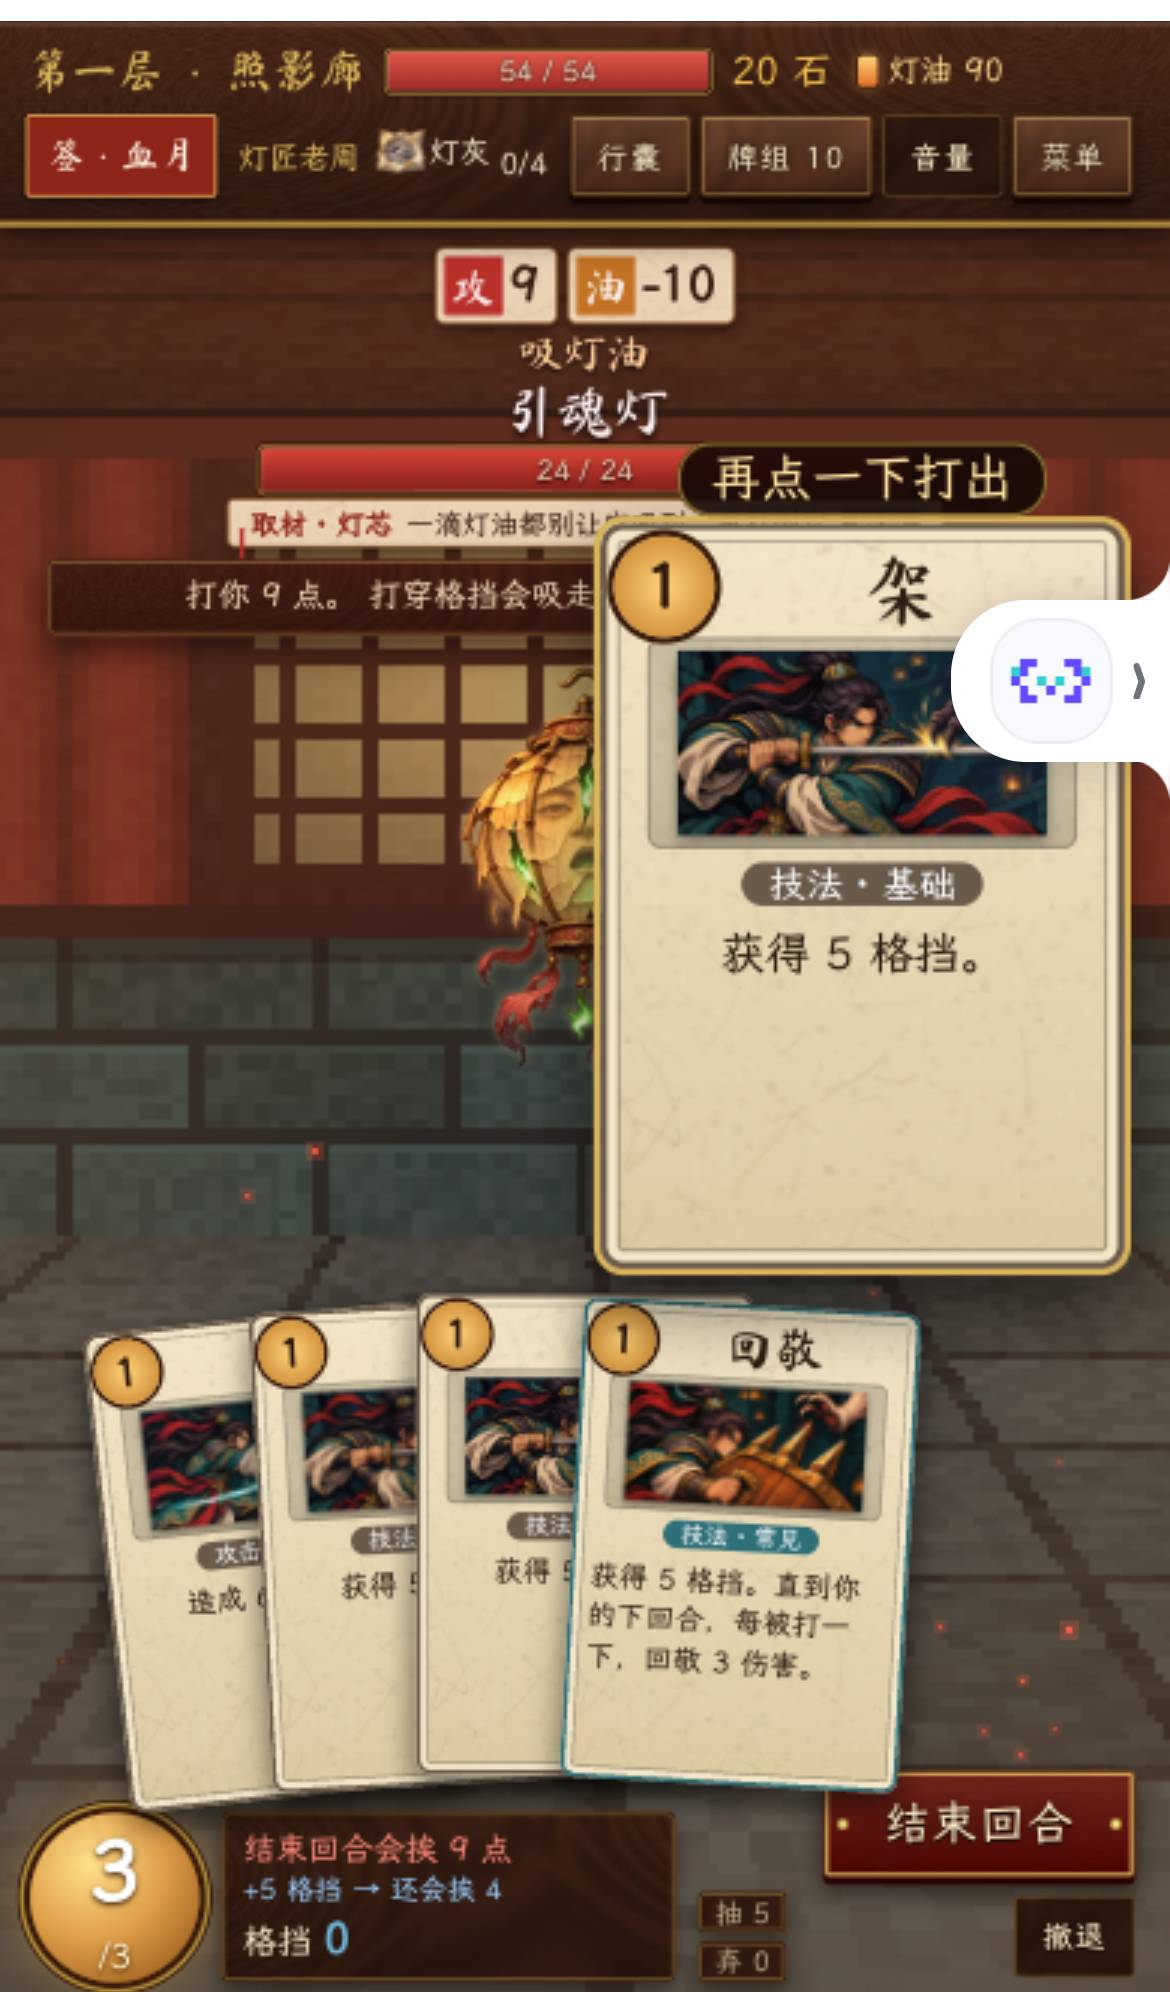
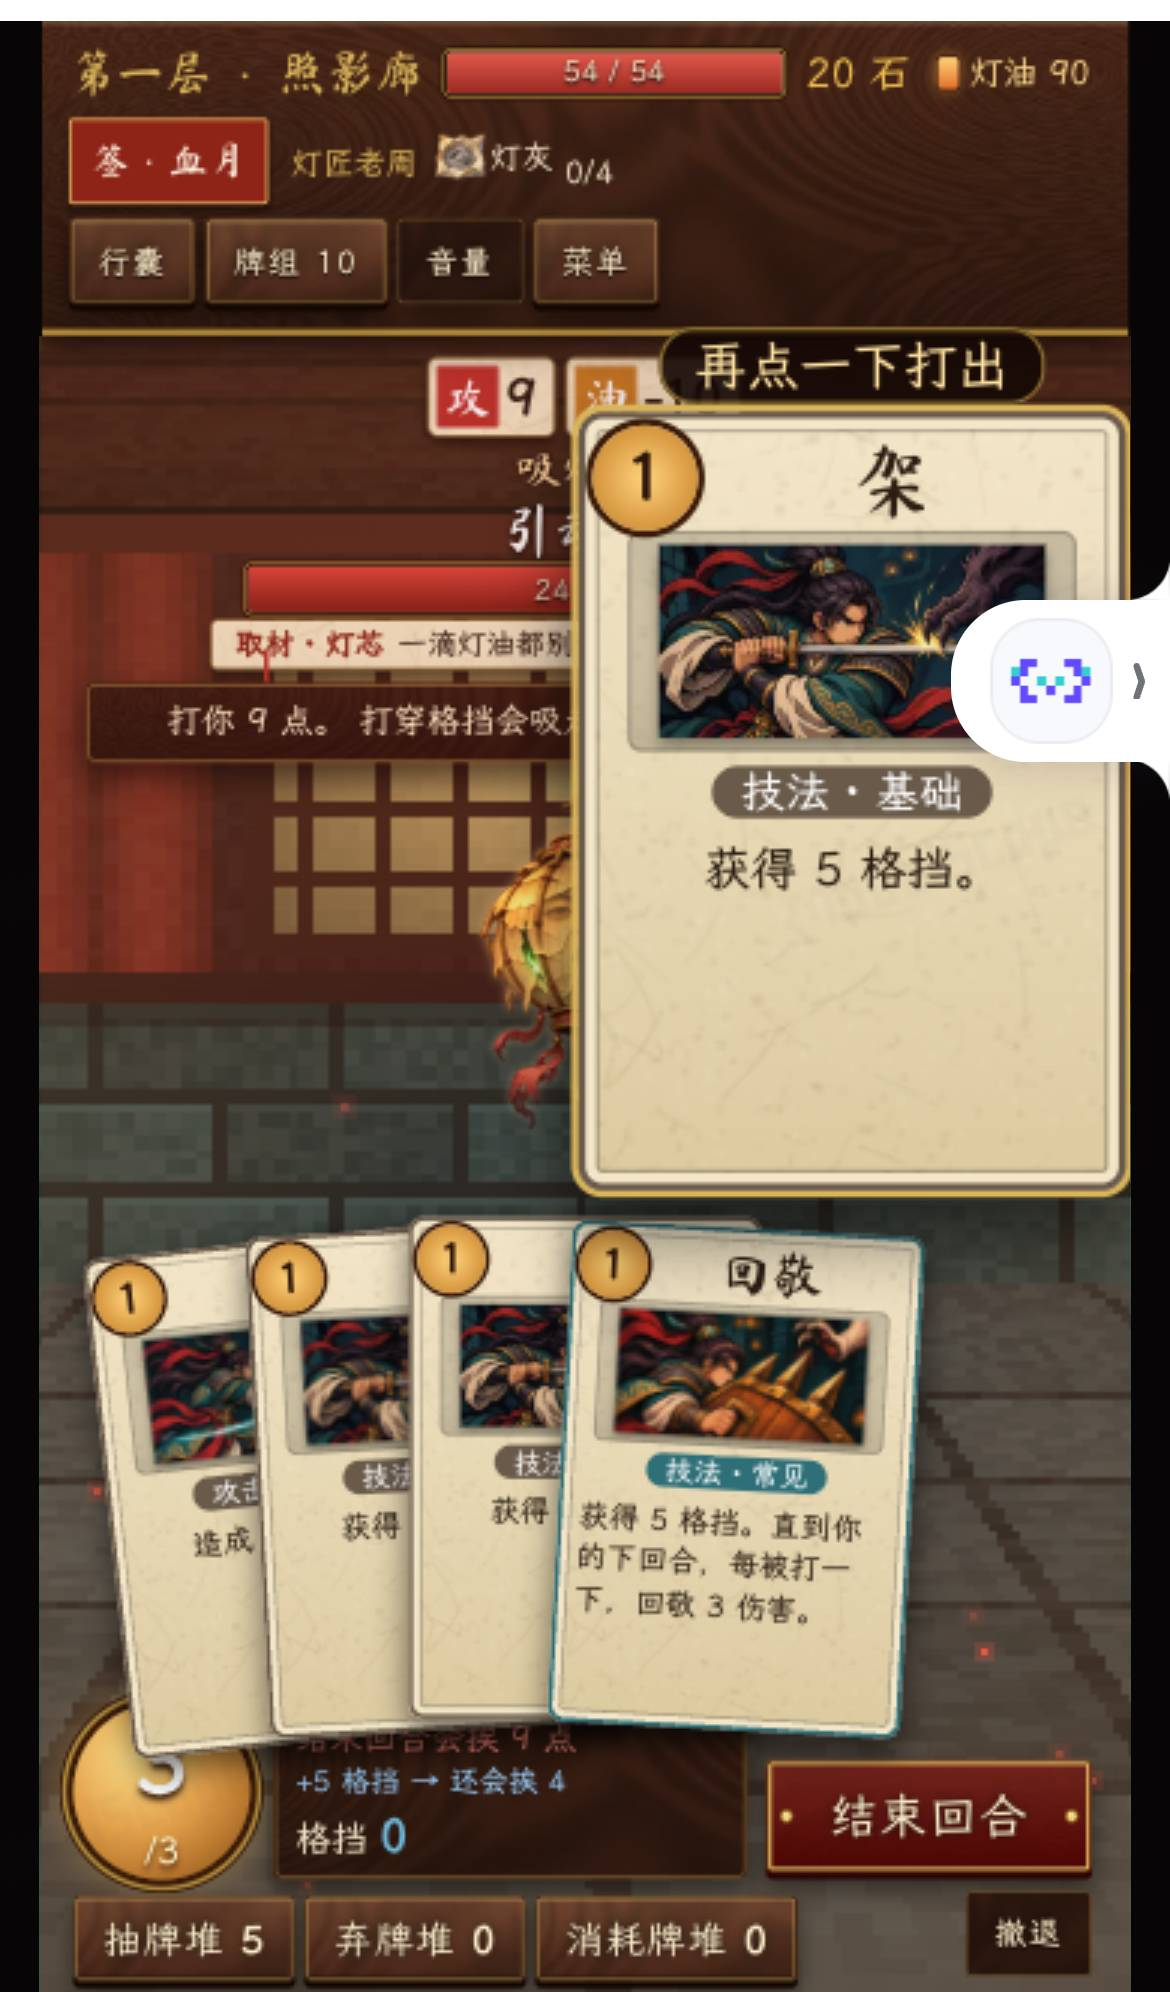
CONTEST-001: eighth studio upload (40f6631: UI-018..020, ART-016)
- Studio commit 5e0a35b6 (6 split item images, index.html, index JS/CSS,
  SHA256SUMS.txt), redeployed; live hashes match the package.
- qa and the three studio checks pass with 0 errors; live iPhone 13 and
  desktop checks pass. Records, screenshots and report.json updated.

diff --git a/docs/contest/README.md b/docs/contest/README.md
@@ -1,6 +1,6 @@
 # 参赛清单 · AI+∞ 开发者创作大赛第三期「AI 造游戏」
 
-作品：**斩妖塔 · 富婆狐商救救我！**（`v2/`）。任务 CONTEST-001，记录见 [开发日志](../dev-log/2026-11-24-CONTEST-001.md)。更新于 2026-11-25（上海时间）。
+作品：**斩妖塔 · 富婆狐商救救我！**（`v2/`）。任务 CONTEST-001，记录见 [开发日志](../dev-log/2026-11-24-CONTEST-001.md)。更新于 2026-11-26（上海时间）。
 
 ## 截止时间
 
@@ -23,7 +23,7 @@
 | 3 | 报名审核 | ✅ **已通过**（11-24 晚在官网报名页查到「审核已通过，现在可以正常提交作品」）。小红书帖子已公开（[链接](https://xhslink.cn/o/ABLiArehEAG)，含 5 个话题、@Qoder CN、@魔搭ModelScope社区，带「含 AI 生成内容」声明） | 已完成 | 官网报名页（截图含真实姓名，不进公开仓库） |
 | 4 | 创空间部署包 | ✅ 已生成（含新素材、新封面和界面修复，5.4 MB），本地 iframe 三项验收通过 | 我们已做 | `cd v2 && npm run pack:studio` → `v2/dist-studio/`、`v2/dist-studio.zip` |
 | 5 | 创空间上线 | ✅ 11-24 已建、部署并**公开**：https://modelscope.cn/studios/Shiaoming/zhanyaota （Static、免费 CPU、MIT、封面为横版主视觉；网页上传扁平包 201 个文件） | Claude 经你同意代为操作 | [创空间上传步骤.md](创空间上传步骤.md) |
-| 6 | 上线后检查 | ✅ 公开后用未登录浏览器测过：桌面、iPhone 13、Pixel 7 都能打开、进塔、用方向键走路，0 报错；手机 UA 下魔搭自动切手机版页面，游戏铺满屏幕用竖屏布局。**11-24 晚重新上传并部署**（空间提交 `0e68aa20`，含 iPhone 标题修复、手机两步出牌 UI-005、套装调参 GAME-006），未登录 iPhone 13 复验：标题一行、两步出牌正常且选中牌压在提示之上、`?playtest=1` 直链结算页有「复制本局试玩记录」；线上 4 个变更文件哈希和包一致。唯一的报错来自魔搭手机页自己的脚本（`g.alicdn.com/sail-web/maas`），游戏框内 0 报错。**11-25 凌晨第三次上传**：main `908002b`（UI-012 竖屏大字、GAME-007～009、REVIEW-001/002 等），空间提交 `1c80d21f`，重新部署后线上 `SHA256SUMS.txt` 和包完全一致；未登录 iPhone 13 和桌面 1280×720 复验：标题一行、进战斗、出牌（手机两步、选中牌在最上层）、`?playtest=1` 结算页有「复制本局试玩记录」，游戏框 0 报错。**11-25 上午第四次上传**：`fd54fa2`（GAME-010、REVIEW-002 复查、UI-014），空间提交 `c30c2ec7`，线上哈希和包一致，未登录 iPhone 13 和桌面复验同上全部正常。**11-25 上午第五次上传**：`86e2f3d`（ART-013 签文插图、ART-014 货物像素图），空间提交 `7833e578`，线上哈希和包一致，未登录 iPhone 13 和桌面复验全部正常。**11-25 下午第六次上传**：`7806fa9`（UI-015～017、REVIEW-003、ART-015），空间提交 `732a4c92`，线上哈希和包一致，未登录 iPhone 13 和桌面复验全部正常。**11-25 下午第七次上传**：`bb7b24e`（QA-002 狐市长说明不再被裁），空间提交 `935c8056`，线上哈希和包一致，未登录 iPhone 13 和桌面复验全部正常 | Claude | 同上第 4 节 · 截图 [media/live-check/](media/live-check/) |
+| 6 | 上线后检查 | ✅ 公开后用未登录浏览器测过：桌面、iPhone 13、Pixel 7 都能打开、进塔、用方向键走路，0 报错；手机 UA 下魔搭自动切手机版页面，游戏铺满屏幕用竖屏布局。**11-24 晚重新上传并部署**（空间提交 `0e68aa20`，含 iPhone 标题修复、手机两步出牌 UI-005、套装调参 GAME-006），未登录 iPhone 13 复验：标题一行、两步出牌正常且选中牌压在提示之上、`?playtest=1` 直链结算页有「复制本局试玩记录」；线上 4 个变更文件哈希和包一致。唯一的报错来自魔搭手机页自己的脚本（`g.alicdn.com/sail-web/maas`），游戏框内 0 报错。**11-25 凌晨第三次上传**：main `908002b`（UI-012 竖屏大字、GAME-007～009、REVIEW-001/002 等），空间提交 `1c80d21f`，重新部署后线上 `SHA256SUMS.txt` 和包完全一致；未登录 iPhone 13 和桌面 1280×720 复验：标题一行、进战斗、出牌（手机两步、选中牌在最上层）、`?playtest=1` 结算页有「复制本局试玩记录」，游戏框 0 报错。**11-25 上午第四次上传**：`fd54fa2`（GAME-010、REVIEW-002 复查、UI-014），空间提交 `c30c2ec7`，线上哈希和包一致，未登录 iPhone 13 和桌面复验同上全部正常。**11-25 上午第五次上传**：`86e2f3d`（ART-013 签文插图、ART-014 货物像素图），空间提交 `7833e578`，线上哈希和包一致，未登录 iPhone 13 和桌面复验全部正常。**11-25 下午第六次上传**：`7806fa9`（UI-015～017、REVIEW-003、ART-015），空间提交 `732a4c92`，线上哈希和包一致，未登录 iPhone 13 和桌面复验全部正常。**11-25 下午第七次上传**：`bb7b24e`（QA-002 狐市长说明不再被裁），空间提交 `935c8056`，线上哈希和包一致，未登录 iPhone 13 和桌面复验全部正常。**11-26 第八次上传**：`40f6631`（UI-018～020、ART-016，竖屏 480 宽大字），空间提交 `5e0a35b6`，线上哈希和包一致，未登录 iPhone 13 和桌面复验全部正常 | Claude | 同上第 4 节 · 截图 [media/live-check/](media/live-check/) |
 | 7 | 创作手记 | ✅ **11-24 已发布**：https://www.modelscope.cn/posts/438827 （专题 AI+赛事，标签 多模态模型AIGC，封面横版主视觉，关联创空间 zhanyaota；5 张图、3 张表、文末嵌演示视频；未登录可打开） | 你确认后 Claude 代发 | [创作手记-v2草稿.md](创作手记-v2草稿.md) |
 | 8 | 演示视频 | ✅ 已嵌入手记（上传版压成 1280×720、8 MB，因为上传工具单次上限 10 MB） | 已完成 | `media/demo.mp4` |
 | 9 | 官网最终提交 | ✅ **11-24 19:57 已提交**，官网「我的作品」显示「待审核」。填写：作品名称「斩妖塔 · 富婆狐商救救我！」、简介（卡牌战斗 + 狐商跑商 + 假狐商 + AI 分工，约 170 字）、创空间链接 https://www.modelscope.cn/studios/Shiaoming/zhanyaota 、手记链接 https://www.modelscope.cn/posts/438827 | 你确认后 Claude 代交；**你**：留意作品审核结果，需要改就在「我的作品」点「编辑」 | [回执截图](media/submit-receipt.jpg) |

diff --git a/docs/dev-log/2026-11-24-CONTEST-001.md b/docs/dev-log/2026-11-24-CONTEST-001.md
@@ -171,3 +171,11 @@
 - 用户在 QA-002 之后说「Upload it」。只多了狐市货格的修复：照影剑的长说明不再被裁。代码和刚通过的 qa 一致；创空间验收三项按顺序全过，0 错误。
 - 传 4 个文件，空间提交 `935c8056`。网页上传转了一分多钟，刷新后确认已经提交。重新部署后线上哈希和包一致。
 - 线上复验：部署刚完成时两次都找不到游戏框（空间在启动）；之后 iPhone 13 和桌面 1280×720 都通过：标题一行、进战斗、出牌（手机两步、选中牌在最上层）、结算页有「复制本局试玩记录」。iPhone 下唯一的报错仍来自魔搭手机页脚本。
+
+## 11-26：第八次上传（`40f6631`）
+
+- 主会话转来用户的要求：「……再次提交推送并且同步到魔搭吧」。按约定，转述不算本人确认：先打包、跑完检查，再在本会话问用户，用户回复「Upload it」后才上传。
+- 内容：UI-018 行囊拖拽对齐，ART-016 拆分共用贴图（另一位开发者）；UI-019 战斗中查看三种牌堆；UI-020 竖屏舞台从 540 改成 480 宽，手机上字放大约 12.5%，并修了审查 UI-018/019 时发现的问题。
+- qa 通过（116 项单测，行囊贴图、死按钮、全界面三尺寸都是 0）。创空间验收三项按顺序全过：桌面、phone-390 回镇重开正常，climb 三层通关约 2 分钟，0 错误、0 坏请求。主会话提醒的竖屏新布局（480 宽、走路按钮平分一行、小地图 250px）和桌面更紧的扇形手牌，bot 现有的找法都能应付。
+- 传 10 个文件，空间提交 `5e0a35b6`，重新部署约 2.5 分钟后线上 `SHA256SUMS.txt` 和包完全一致。
+- 线上复验：iPhone 13 和桌面 1280×720 都显示一行标题，能进战斗、出牌，结算页有「复制本局试玩记录」；手机两步出牌、选中牌在最上层，竖屏大字和底部三个牌堆按钮显示正常。iPhone 下唯一的报错仍来自魔搭手机页脚本。
